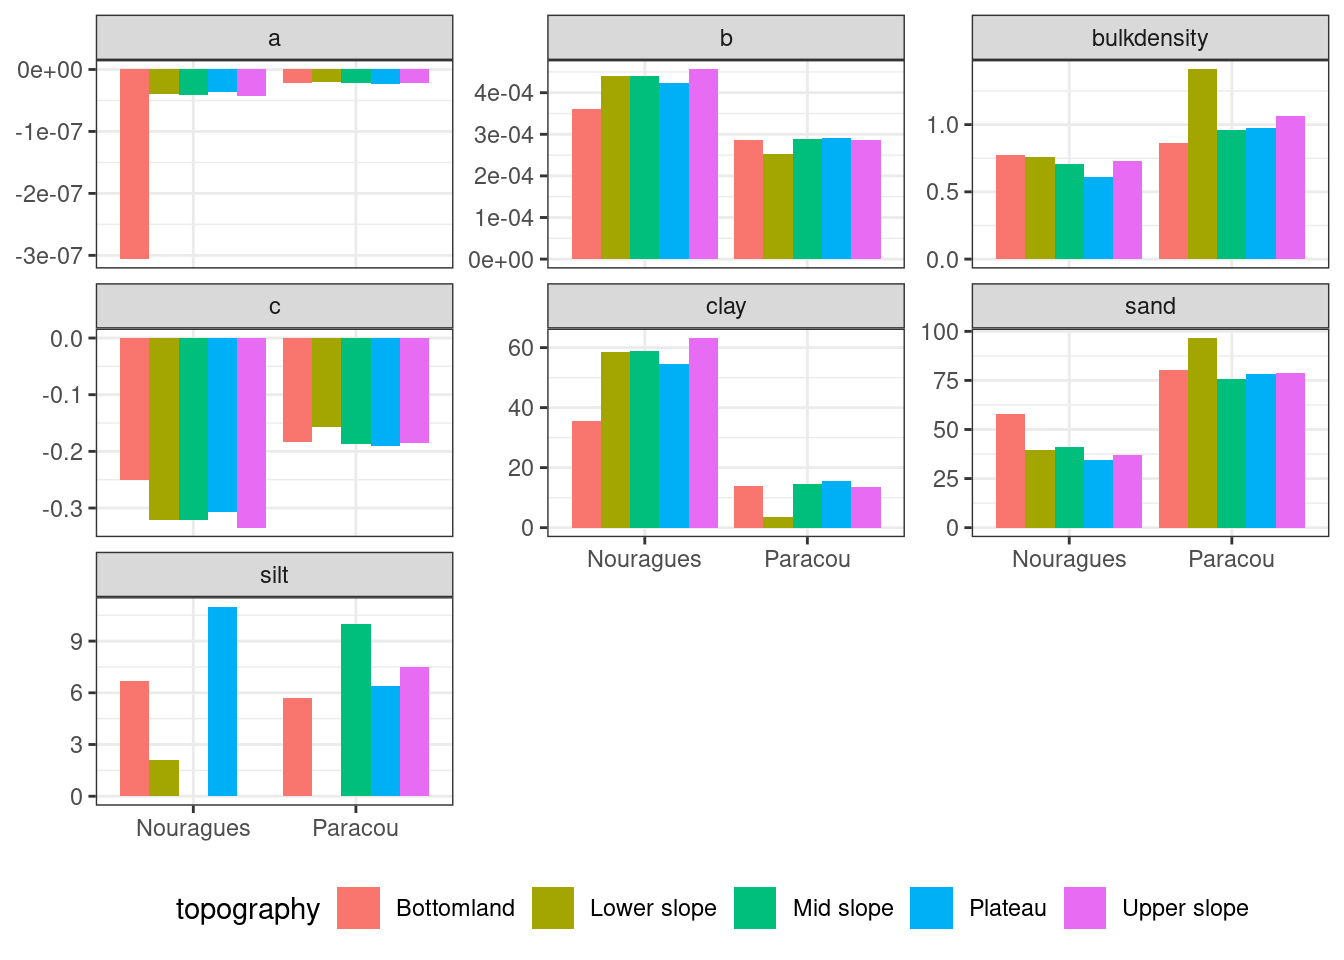
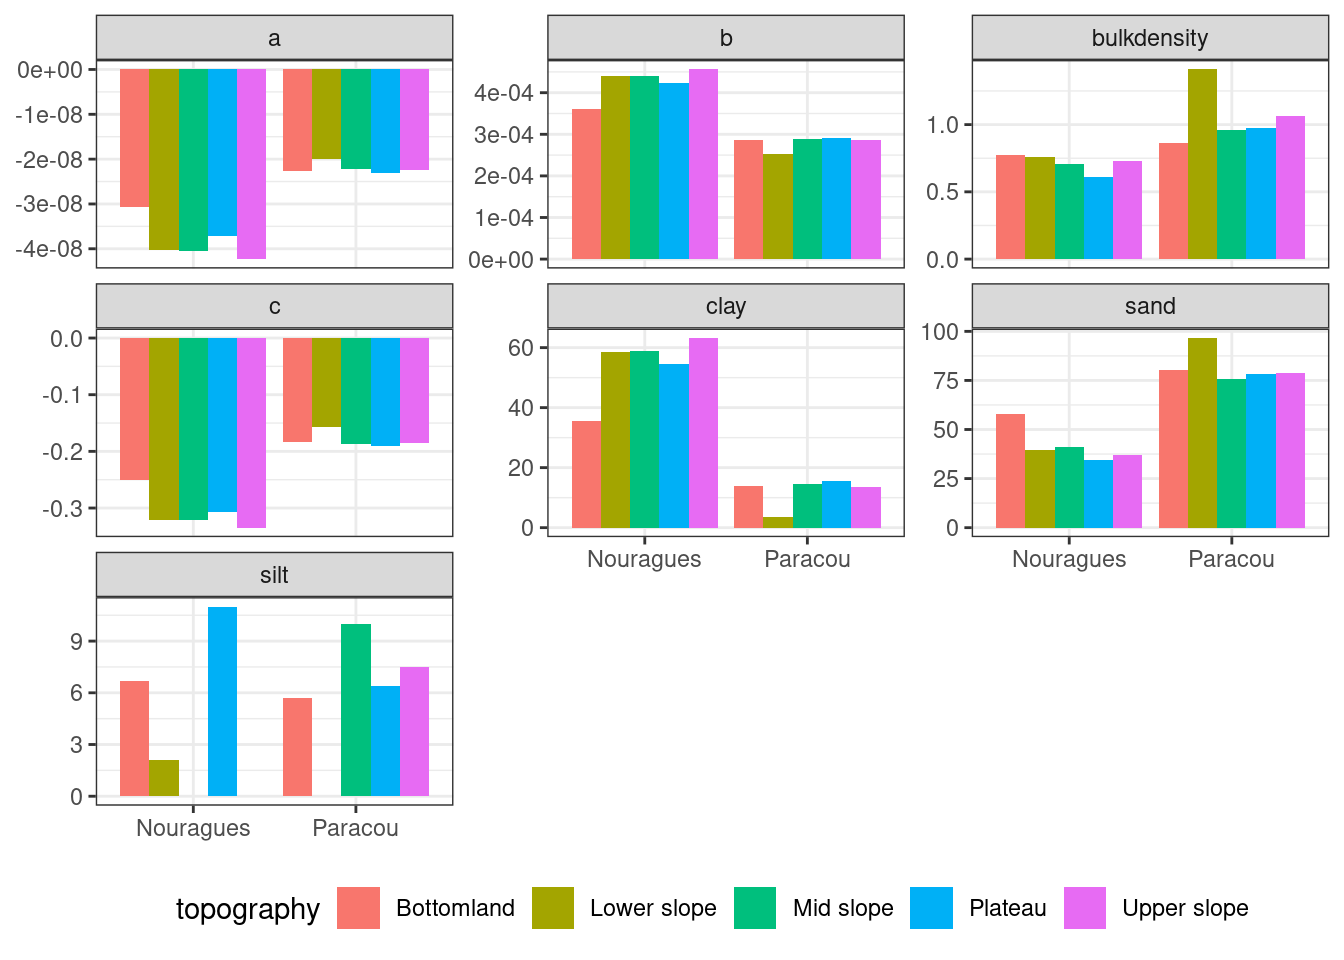
microclim 0.1.0.9003: data tomst (almost ready)

Changed region(s): [[0.0, 0.0625, 0.3438, 0.2812], [0.0, 0.0938, 0.0625, 0.2188]]

diff --git a/docs/01_data.html b/docs/01_data.html
@@ -404,9 +404,156 @@ pre > code.sourceCode > span > a:first-child::before { text-decoration: underlin
 </section>
 <section id="tomst-calibration" class="level2">
 <h2 class="anchored" data-anchor-id="tomst-calibration">Tomst calibration</h2>
+<div class="cell">
+<details>
+<summary>Code</summary>
+<div class="sourceCode cell-code" id="cb7"><pre class="sourceCode r code-with-copy"><code class="sourceCode r"><span id="cb7-1"><a href="#cb7-1" aria-hidden="true" tabindex="-1"></a>files <span class="ot">&lt;-</span> <span class="fu">list.files</span>(<span class="st">"data/Nouragues_Test_2023_02_22"</span>, <span class="at">pattern =</span> <span class="st">"data"</span>, <span class="at">full.names =</span> <span class="cn">TRUE</span>)</span>
+<span id="cb7-2"><a href="#cb7-2" aria-hidden="true" tabindex="-1"></a><span class="fu">names</span>(files) <span class="ot">&lt;-</span> <span class="fu">list.files</span>(<span class="st">"data/Nouragues_Test_2023_02_22"</span>, <span class="at">pattern =</span> <span class="st">"data"</span>, <span class="at">full.names =</span> <span class="cn">FALSE</span>)</span>
+<span id="cb7-3"><a href="#cb7-3" aria-hidden="true" tabindex="-1"></a>files <span class="sc">%&gt;%</span> </span>
+<span id="cb7-4"><a href="#cb7-4" aria-hidden="true" tabindex="-1"></a>  <span class="fu">lapply</span>(vroom,</span>
+<span id="cb7-5"><a href="#cb7-5" aria-hidden="true" tabindex="-1"></a>         <span class="at">col_select =</span> <span class="dv">2</span><span class="sc">:</span><span class="dv">7</span>,</span>
+<span id="cb7-6"><a href="#cb7-6" aria-hidden="true" tabindex="-1"></a>         <span class="at">col_types =</span> <span class="fu">c</span>(<span class="st">"c"</span>, <span class="fu">rep</span>(<span class="st">"d"</span>, <span class="dv">5</span>)), </span>
+<span id="cb7-7"><a href="#cb7-7" aria-hidden="true" tabindex="-1"></a>         <span class="at">col_names =</span> F,</span>
+<span id="cb7-8"><a href="#cb7-8" aria-hidden="true" tabindex="-1"></a>         <span class="at">locale =</span> <span class="fu">locale</span>(<span class="at">decimal_mark =</span> <span class="st">","</span>)) <span class="sc">%&gt;%</span> </span>
+<span id="cb7-9"><a href="#cb7-9" aria-hidden="true" tabindex="-1"></a>  <span class="fu">bind_rows</span>(<span class="at">.id =</span> <span class="st">"file"</span>) <span class="sc">%&gt;%</span> </span>
+<span id="cb7-10"><a href="#cb7-10" aria-hidden="true" tabindex="-1"></a>  <span class="fu">mutate</span>(<span class="at">X2 =</span> <span class="fu">gsub</span>(<span class="st">"."</span>, <span class="st">"-"</span>, X2, <span class="at">fixed =</span> <span class="cn">TRUE</span>)) <span class="sc">%&gt;%</span> </span>
+<span id="cb7-11"><a href="#cb7-11" aria-hidden="true" tabindex="-1"></a>  <span class="fu">mutate</span>(<span class="at">X2 =</span> <span class="fu">as.POSIXct</span>(X2)) <span class="sc">%&gt;%</span> </span>
+<span id="cb7-12"><a href="#cb7-12" aria-hidden="true" tabindex="-1"></a>  <span class="fu">mutate</span>(<span class="at">X2 =</span> <span class="fu">as_datetime</span>(X2)) <span class="sc">%&gt;%</span> </span>
+<span id="cb7-13"><a href="#cb7-13" aria-hidden="true" tabindex="-1"></a>  <span class="fu">rename</span>(<span class="at">date =</span> X2, <span class="at">tz =</span> X3, <span class="at">t_soil =</span> X4, <span class="at">t_surface =</span> X5, <span class="at">t_air =</span> X6, <span class="at">moisture =</span> X7) <span class="sc">%&gt;%</span> </span>
+<span id="cb7-14"><a href="#cb7-14" aria-hidden="true" tabindex="-1"></a>  <span class="fu">separate</span>(file, <span class="fu">c</span>(<span class="st">"data"</span>, <span class="st">"tomst_sensornum"</span>), <span class="at">convert =</span> T) <span class="sc">%&gt;%</span> </span>
+<span id="cb7-15"><a href="#cb7-15" aria-hidden="true" tabindex="-1"></a>  <span class="fu">select</span>(<span class="sc">-</span>data) <span class="sc">%&gt;%</span> </span>
+<span id="cb7-16"><a href="#cb7-16" aria-hidden="true" tabindex="-1"></a>  <span class="fu">mutate</span>(<span class="at">date =</span> date <span class="sc">-</span> <span class="dv">3</span><span class="sc">*</span><span class="dv">60</span><span class="sc">*</span><span class="dv">60</span>) <span class="sc">%&gt;%</span> <span class="co"># UTC-3</span></span>
+<span id="cb7-17"><a href="#cb7-17" aria-hidden="true" tabindex="-1"></a>  <span class="fu">mutate</span>(<span class="at">site =</span> <span class="st">"Nouragues"</span>) <span class="sc">%&gt;%</span> </span>
+<span id="cb7-18"><a href="#cb7-18" aria-hidden="true" tabindex="-1"></a>  <span class="fu">left_join</span>(<span class="fu">read_tsv</span>(<span class="st">"outputs/tomst_infos.tsv"</span>) <span class="sc">%&gt;%</span> </span>
+<span id="cb7-19"><a href="#cb7-19" aria-hidden="true" tabindex="-1"></a>              <span class="fu">select</span>(tomst_sensornum, site, topography)) <span class="sc">%&gt;%</span> </span>
+<span id="cb7-20"><a href="#cb7-20" aria-hidden="true" tabindex="-1"></a>  <span class="fu">left_join</span>(<span class="fu">read_tsv</span>(<span class="st">"outputs/granulo.tsv"</span>) <span class="sc">%&gt;%</span> </span>
+<span id="cb7-21"><a href="#cb7-21" aria-hidden="true" tabindex="-1"></a>              <span class="fu">select</span>(site, topography, a, b, c)) <span class="sc">%&gt;%</span> </span>
+<span id="cb7-22"><a href="#cb7-22" aria-hidden="true" tabindex="-1"></a>  <span class="fu">mutate</span>(<span class="at">volumetric_moisture =</span> a<span class="sc">*</span>moisture<span class="sc">^</span><span class="dv">2</span> <span class="sc">+</span> b<span class="sc">*</span>moisture <span class="sc">+</span> c) <span class="sc">%&gt;%</span> </span>
+<span id="cb7-23"><a href="#cb7-23" aria-hidden="true" tabindex="-1"></a>  <span class="fu">select</span>(site, date, tomst_sensornum, t_soil, t_surface, t_air, volumetric_moisture) <span class="sc">%&gt;%</span> </span>
+<span id="cb7-24"><a href="#cb7-24" aria-hidden="true" tabindex="-1"></a>  <span class="fu">write_tsv</span>(<span class="st">"outputs/tomst_calib.tsv"</span>)</span></code><button title="Copy to Clipboard" class="code-copy-button"><i class="bi"></i></button></pre></div>
+</details>
+</div>
+<div class="cell">
+<details>
+<summary>Code</summary>
+<div class="sourceCode cell-code" id="cb8"><pre class="sourceCode r code-with-copy"><code class="sourceCode r"><span id="cb8-1"><a href="#cb8-1" aria-hidden="true" tabindex="-1"></a><span class="fu">read_tsv</span>(<span class="st">"outputs/tomst_calib.tsv"</span>) <span class="sc">%&gt;%</span> </span>
+<span id="cb8-2"><a href="#cb8-2" aria-hidden="true" tabindex="-1"></a>  <span class="fu">gather</span>(variable, value, <span class="sc">-</span>tomst_sensornum, <span class="sc">-</span>date, <span class="sc">-</span>site) <span class="sc">%&gt;%</span> </span>
+<span id="cb8-3"><a href="#cb8-3" aria-hidden="true" tabindex="-1"></a>  <span class="fu">filter</span>(tomst_sensornum <span class="sc">%in%</span> <span class="fu">c</span>(<span class="dv">94244901</span>, <span class="dv">94244902</span>)) <span class="sc">%&gt;%</span> </span>
+<span id="cb8-4"><a href="#cb8-4" aria-hidden="true" tabindex="-1"></a>  <span class="fu">ggplot</span>(<span class="fu">aes</span>(date, value, <span class="at">col =</span> <span class="fu">as.character</span>(tomst_sensornum))) <span class="sc">+</span></span>
+<span id="cb8-5"><a href="#cb8-5" aria-hidden="true" tabindex="-1"></a>  <span class="fu">geom_line</span>() <span class="sc">+</span></span>
+<span id="cb8-6"><a href="#cb8-6" aria-hidden="true" tabindex="-1"></a>  <span class="fu">facet_wrap</span>(<span class="sc">~</span> variable, <span class="at">scales =</span> <span class="st">"free_y"</span>) <span class="sc">+</span></span>
+<span id="cb8-7"><a href="#cb8-7" aria-hidden="true" tabindex="-1"></a>  <span class="fu">theme_bw</span>() <span class="sc">+</span></span>
+<span id="cb8-8"><a href="#cb8-8" aria-hidden="true" tabindex="-1"></a>  <span class="fu">theme</span>(<span class="at">legend.position =</span> <span class="st">"bottom"</span>, <span class="at">axis.title =</span> <span class="fu">element_blank</span>()) <span class="sc">+</span></span>
+<span id="cb8-9"><a href="#cb8-9" aria-hidden="true" tabindex="-1"></a>  <span class="fu">scale_color_discrete</span>(<span class="st">""</span>)</span></code><button title="Copy to Clipboard" class="code-copy-button"><i class="bi"></i></button></pre></div>
+</details>
+<div class="cell-output-display">
+<div class="quarto-figure quarto-figure-center">
+<figure class="figure">
+<p><img src="01_data_files/figure-html/calibfig-1.png" class="img-fluid figure-img" width="672"></p>
+<figcaption class="figure-caption">Caption.</figcaption>
+</figure>
+</div>
+</div>
+</div>
+<p>Variables:</p>
+<ul>
+<li><strong>site</strong>: Paracou or Nouragues</li>
+<li><strong>date</strong>: date time every 15 minutes</li>
+<li><strong>tomst_sensornum</strong>: tomst manufacturer ID</li>
+<li><strong>t_soil</strong>: temperature soil (°C), <strong>to precise</strong></li>
+<li><strong>t_surface</strong>: temperature surface (°C), <strong>to precise</strong></li>
+<li><strong>t_air</strong>: temperature air (°C), <strong>to precise</strong></li>
+<li>Other variables could be kept after junction (topography, light, etc for subsequent analyses)</li>
+</ul>
 </section>
 <section id="tomst-data" class="level2">
 <h2 class="anchored" data-anchor-id="tomst-data">Tomst data</h2>
+<div class="cell">
+<details>
+<summary>Code</summary>
+<div class="sourceCode cell-code" id="cb9"><pre class="sourceCode r code-with-copy"><code class="sourceCode r"><span id="cb9-1"><a href="#cb9-1" aria-hidden="true" tabindex="-1"></a>files <span class="ot">&lt;-</span> <span class="fu">list.files</span>(<span class="st">"data/Nouragues_2024_02_22"</span>, <span class="at">pattern =</span> <span class="st">"data"</span>, <span class="at">full.names =</span> <span class="cn">TRUE</span>)</span>
+<span id="cb9-2"><a href="#cb9-2" aria-hidden="true" tabindex="-1"></a><span class="fu">names</span>(files) <span class="ot">&lt;-</span> <span class="fu">list.files</span>(<span class="st">"data/Nouragues_2024_02_22"</span>, <span class="at">pattern =</span> <span class="st">"data"</span>, <span class="at">full.names =</span> <span class="cn">FALSE</span>)</span>
+<span id="cb9-3"><a href="#cb9-3" aria-hidden="true" tabindex="-1"></a>nouragues <span class="ot">&lt;-</span> files <span class="sc">%&gt;%</span> </span>
+<span id="cb9-4"><a href="#cb9-4" aria-hidden="true" tabindex="-1"></a>  <span class="fu">lapply</span>(vroom,</span>
+<span id="cb9-5"><a href="#cb9-5" aria-hidden="true" tabindex="-1"></a>         <span class="at">col_select =</span> <span class="dv">2</span><span class="sc">:</span><span class="dv">7</span>,</span>
+<span id="cb9-6"><a href="#cb9-6" aria-hidden="true" tabindex="-1"></a>         <span class="at">col_types =</span> <span class="fu">c</span>(<span class="st">"c"</span>, <span class="fu">rep</span>(<span class="st">"d"</span>, <span class="dv">5</span>)), </span>
+<span id="cb9-7"><a href="#cb9-7" aria-hidden="true" tabindex="-1"></a>         <span class="at">col_names =</span> F,</span>
+<span id="cb9-8"><a href="#cb9-8" aria-hidden="true" tabindex="-1"></a>         <span class="at">locale =</span> <span class="fu">locale</span>(<span class="at">decimal_mark =</span> <span class="st">","</span>)) <span class="sc">%&gt;%</span> </span>
+<span id="cb9-9"><a href="#cb9-9" aria-hidden="true" tabindex="-1"></a>  <span class="fu">bind_rows</span>(<span class="at">.id =</span> <span class="st">"file"</span>) <span class="sc">%&gt;%</span> </span>
+<span id="cb9-10"><a href="#cb9-10" aria-hidden="true" tabindex="-1"></a>  <span class="fu">mutate</span>(<span class="at">X2 =</span> <span class="fu">gsub</span>(<span class="st">"."</span>, <span class="st">"-"</span>, X2, <span class="at">fixed =</span> <span class="cn">TRUE</span>)) <span class="sc">%&gt;%</span> </span>
+<span id="cb9-11"><a href="#cb9-11" aria-hidden="true" tabindex="-1"></a>  <span class="fu">mutate</span>(<span class="at">X2 =</span> <span class="fu">as.POSIXct</span>(X2)) <span class="sc">%&gt;%</span> </span>
+<span id="cb9-12"><a href="#cb9-12" aria-hidden="true" tabindex="-1"></a>  <span class="fu">mutate</span>(<span class="at">X2 =</span> <span class="fu">as_datetime</span>(X2)) <span class="sc">%&gt;%</span> </span>
+<span id="cb9-13"><a href="#cb9-13" aria-hidden="true" tabindex="-1"></a>  <span class="fu">rename</span>(<span class="at">date =</span> X2, <span class="at">tz =</span> X3, <span class="at">t_soil =</span> X4, <span class="at">t_surface =</span> X5, <span class="at">t_air =</span> X6, <span class="at">moisture =</span> X7) <span class="sc">%&gt;%</span> </span>
+<span id="cb9-14"><a href="#cb9-14" aria-hidden="true" tabindex="-1"></a>  <span class="fu">separate</span>(file, <span class="fu">c</span>(<span class="st">"data"</span>, <span class="st">"tomst_sensornum"</span>), <span class="at">convert =</span> T) <span class="sc">%&gt;%</span> </span>
+<span id="cb9-15"><a href="#cb9-15" aria-hidden="true" tabindex="-1"></a>  <span class="fu">select</span>(<span class="sc">-</span>data) <span class="sc">%&gt;%</span> </span>
+<span id="cb9-16"><a href="#cb9-16" aria-hidden="true" tabindex="-1"></a>  <span class="fu">mutate</span>(<span class="at">date =</span> date <span class="sc">-</span> <span class="dv">3</span><span class="sc">*</span><span class="dv">60</span><span class="sc">*</span><span class="dv">60</span>) <span class="sc">%&gt;%</span> <span class="co"># UTC-3</span></span>
+<span id="cb9-17"><a href="#cb9-17" aria-hidden="true" tabindex="-1"></a>  <span class="fu">mutate</span>(<span class="at">site =</span> <span class="st">"Nouragues"</span>) <span class="sc">%&gt;%</span> </span>
+<span id="cb9-18"><a href="#cb9-18" aria-hidden="true" tabindex="-1"></a>  <span class="fu">left_join</span>(<span class="fu">read_tsv</span>(<span class="st">"outputs/tomst_infos.tsv"</span>) <span class="sc">%&gt;%</span> </span>
+<span id="cb9-19"><a href="#cb9-19" aria-hidden="true" tabindex="-1"></a>              <span class="fu">select</span>(tomst_sensornum, site, topography)) <span class="sc">%&gt;%</span> </span>
+<span id="cb9-20"><a href="#cb9-20" aria-hidden="true" tabindex="-1"></a>  <span class="fu">left_join</span>(<span class="fu">read_tsv</span>(<span class="st">"outputs/granulo.tsv"</span>) <span class="sc">%&gt;%</span> </span>
+<span id="cb9-21"><a href="#cb9-21" aria-hidden="true" tabindex="-1"></a>              <span class="fu">select</span>(site, topography, a, b, c)) <span class="sc">%&gt;%</span> </span>
+<span id="cb9-22"><a href="#cb9-22" aria-hidden="true" tabindex="-1"></a>  <span class="fu">mutate</span>(<span class="at">volumetric_moisture =</span> a<span class="sc">*</span>moisture<span class="sc">^</span><span class="dv">2</span> <span class="sc">+</span> b<span class="sc">*</span>moisture <span class="sc">+</span> c) <span class="sc">%&gt;%</span> </span>
+<span id="cb9-23"><a href="#cb9-23" aria-hidden="true" tabindex="-1"></a>  <span class="fu">select</span>(site, date, tomst_sensornum, t_soil, t_surface, t_air, volumetric_moisture)</span>
+<span id="cb9-24"><a href="#cb9-24" aria-hidden="true" tabindex="-1"></a>files <span class="ot">&lt;-</span> <span class="fu">list.files</span>(<span class="st">"data/Paracou_2024_05_06"</span>, <span class="at">pattern =</span> <span class="st">"data"</span>, <span class="at">full.names =</span> <span class="cn">TRUE</span>)</span>
+<span id="cb9-25"><a href="#cb9-25" aria-hidden="true" tabindex="-1"></a><span class="fu">names</span>(files) <span class="ot">&lt;-</span> <span class="fu">list.files</span>(<span class="st">"data/Paracou_2024_05_06"</span>, <span class="at">pattern =</span> <span class="st">"data"</span>, <span class="at">full.names =</span> <span class="cn">FALSE</span>)</span>
+<span id="cb9-26"><a href="#cb9-26" aria-hidden="true" tabindex="-1"></a>paracou <span class="ot">&lt;-</span> files <span class="sc">%&gt;%</span> </span>
+<span id="cb9-27"><a href="#cb9-27" aria-hidden="true" tabindex="-1"></a>  <span class="fu">lapply</span>(vroom,</span>
+<span id="cb9-28"><a href="#cb9-28" aria-hidden="true" tabindex="-1"></a>         <span class="at">col_select =</span> <span class="dv">2</span><span class="sc">:</span><span class="dv">7</span>,</span>
+<span id="cb9-29"><a href="#cb9-29" aria-hidden="true" tabindex="-1"></a>         <span class="at">col_types =</span> <span class="fu">c</span>(<span class="st">"c"</span>, <span class="fu">rep</span>(<span class="st">"d"</span>, <span class="dv">5</span>)), </span>
+<span id="cb9-30"><a href="#cb9-30" aria-hidden="true" tabindex="-1"></a>         <span class="at">col_names =</span> F,</span>
+<span id="cb9-31"><a href="#cb9-31" aria-hidden="true" tabindex="-1"></a>         <span class="at">locale =</span> <span class="fu">locale</span>(<span class="at">decimal_mark =</span> <span class="st">","</span>)) <span class="sc">%&gt;%</span> </span>
+<span id="cb9-32"><a href="#cb9-32" aria-hidden="true" tabindex="-1"></a>  <span class="fu">bind_rows</span>(<span class="at">.id =</span> <span class="st">"file"</span>) <span class="sc">%&gt;%</span> </span>
+<span id="cb9-33"><a href="#cb9-33" aria-hidden="true" tabindex="-1"></a>  <span class="fu">mutate</span>(<span class="at">X2 =</span> <span class="fu">gsub</span>(<span class="st">"."</span>, <span class="st">"-"</span>, X2, <span class="at">fixed =</span> <span class="cn">TRUE</span>)) <span class="sc">%&gt;%</span> </span>
+<span id="cb9-34"><a href="#cb9-34" aria-hidden="true" tabindex="-1"></a>  <span class="fu">mutate</span>(<span class="at">X2 =</span> <span class="fu">as.POSIXct</span>(X2)) <span class="sc">%&gt;%</span> </span>
+<span id="cb9-35"><a href="#cb9-35" aria-hidden="true" tabindex="-1"></a>  <span class="fu">mutate</span>(<span class="at">X2 =</span> <span class="fu">as_datetime</span>(X2)) <span class="sc">%&gt;%</span> </span>
+<span id="cb9-36"><a href="#cb9-36" aria-hidden="true" tabindex="-1"></a>  <span class="fu">rename</span>(<span class="at">date =</span> X2, <span class="at">tz =</span> X3, <span class="at">t_soil =</span> X4, <span class="at">t_surface =</span> X5, <span class="at">t_air =</span> X6, <span class="at">moisture =</span> X7) <span class="sc">%&gt;%</span> </span>
+<span id="cb9-37"><a href="#cb9-37" aria-hidden="true" tabindex="-1"></a>  <span class="fu">separate</span>(file, <span class="fu">c</span>(<span class="st">"data"</span>, <span class="st">"tomst_sensornum"</span>), <span class="at">convert =</span> T) <span class="sc">%&gt;%</span> </span>
+<span id="cb9-38"><a href="#cb9-38" aria-hidden="true" tabindex="-1"></a>  <span class="fu">select</span>(<span class="sc">-</span>data) <span class="sc">%&gt;%</span> </span>
+<span id="cb9-39"><a href="#cb9-39" aria-hidden="true" tabindex="-1"></a>  <span class="fu">mutate</span>(<span class="at">date =</span> date <span class="sc">-</span> <span class="dv">3</span><span class="sc">*</span><span class="dv">60</span><span class="sc">*</span><span class="dv">60</span>) <span class="sc">%&gt;%</span> <span class="co"># UTC-3</span></span>
+<span id="cb9-40"><a href="#cb9-40" aria-hidden="true" tabindex="-1"></a>  <span class="co"># mutate(date = date + years(2)) %&gt;% </span></span>
+<span id="cb9-41"><a href="#cb9-41" aria-hidden="true" tabindex="-1"></a>  <span class="fu">mutate</span>(<span class="at">site =</span> <span class="st">"Paracou"</span>) <span class="sc">%&gt;%</span> </span>
+<span id="cb9-42"><a href="#cb9-42" aria-hidden="true" tabindex="-1"></a>  <span class="fu">left_join</span>(<span class="fu">read_tsv</span>(<span class="st">"outputs/tomst_infos.tsv"</span>) <span class="sc">%&gt;%</span> </span>
+<span id="cb9-43"><a href="#cb9-43" aria-hidden="true" tabindex="-1"></a>              <span class="fu">select</span>(tomst_sensornum, site, topography)) <span class="sc">%&gt;%</span> </span>
+<span id="cb9-44"><a href="#cb9-44" aria-hidden="true" tabindex="-1"></a>  <span class="fu">left_join</span>(<span class="fu">read_tsv</span>(<span class="st">"outputs/granulo.tsv"</span>) <span class="sc">%&gt;%</span> </span>
+<span id="cb9-45"><a href="#cb9-45" aria-hidden="true" tabindex="-1"></a>              <span class="fu">select</span>(site, topography, a, b, c)) <span class="sc">%&gt;%</span> </span>
+<span id="cb9-46"><a href="#cb9-46" aria-hidden="true" tabindex="-1"></a>  <span class="fu">mutate</span>(<span class="at">volumetric_moisture =</span> a<span class="sc">*</span>moisture<span class="sc">^</span><span class="dv">2</span> <span class="sc">+</span> b<span class="sc">*</span>moisture <span class="sc">+</span> c) <span class="sc">%&gt;%</span> <span class="co"># issue with volumetric_moisture</span></span>
+<span id="cb9-47"><a href="#cb9-47" aria-hidden="true" tabindex="-1"></a>  <span class="fu">select</span>(site, date, tomst_sensornum, t_soil, t_surface, t_air, volumetric_moisture)</span>
+<span id="cb9-48"><a href="#cb9-48" aria-hidden="true" tabindex="-1"></a><span class="fu">bind_rows</span>(nouragues, paracou) <span class="sc">%&gt;%</span> </span>
+<span id="cb9-49"><a href="#cb9-49" aria-hidden="true" tabindex="-1"></a>  <span class="fu">write_tsv</span>(<span class="st">"outputs/tomst_data.tsv"</span>)</span></code><button title="Copy to Clipboard" class="code-copy-button"><i class="bi"></i></button></pre></div>
+</details>
+</div>
+<div class="cell">
+<details>
+<summary>Code</summary>
+<div class="sourceCode cell-code" id="cb10"><pre class="sourceCode r code-with-copy"><code class="sourceCode r"><span id="cb10-1"><a href="#cb10-1" aria-hidden="true" tabindex="-1"></a><span class="fu">vroom</span>(<span class="st">"outputs/tomst_data.tsv"</span>) <span class="sc">%&gt;%</span> </span>
+<span id="cb10-2"><a href="#cb10-2" aria-hidden="true" tabindex="-1"></a>  <span class="fu">gather</span>(variable, value, <span class="sc">-</span>tomst_sensornum, <span class="sc">-</span>date, <span class="sc">-</span>site) <span class="sc">%&gt;%</span> </span>
+<span id="cb10-3"><a href="#cb10-3" aria-hidden="true" tabindex="-1"></a>  <span class="fu">filter</span>(tomst_sensornum <span class="sc">%in%</span> <span class="fu">c</span>(<span class="dv">94244901</span>, <span class="dv">94223164</span>)) <span class="sc">%&gt;%</span> </span>
+<span id="cb10-4"><a href="#cb10-4" aria-hidden="true" tabindex="-1"></a>  <span class="fu">ggplot</span>(<span class="fu">aes</span>(date, value, <span class="at">col =</span> <span class="fu">paste</span>(site, tomst_sensornum))) <span class="sc">+</span></span>
+<span id="cb10-5"><a href="#cb10-5" aria-hidden="true" tabindex="-1"></a>  <span class="fu">geom_line</span>() <span class="sc">+</span></span>
+<span id="cb10-6"><a href="#cb10-6" aria-hidden="true" tabindex="-1"></a>  <span class="fu">facet_wrap</span>(<span class="sc">~</span> variable, <span class="at">scales =</span> <span class="st">"free_y"</span>) <span class="sc">+</span></span>
+<span id="cb10-7"><a href="#cb10-7" aria-hidden="true" tabindex="-1"></a>  <span class="fu">theme_bw</span>() <span class="sc">+</span></span>
+<span id="cb10-8"><a href="#cb10-8" aria-hidden="true" tabindex="-1"></a>  <span class="fu">theme</span>(<span class="at">legend.position =</span> <span class="st">"bottom"</span>, <span class="at">axis.title =</span> <span class="fu">element_blank</span>()) <span class="sc">+</span></span>
+<span id="cb10-9"><a href="#cb10-9" aria-hidden="true" tabindex="-1"></a>  <span class="fu">scale_color_discrete</span>(<span class="st">""</span>)</span></code><button title="Copy to Clipboard" class="code-copy-button"><i class="bi"></i></button></pre></div>
+</details>
+<div class="cell-output-display">
+<div class="quarto-figure quarto-figure-center">
+<figure class="figure">
+<p><img src="01_data_files/figure-html/datafig-1.png" class="img-fluid figure-img" width="672"></p>
+<figcaption class="figure-caption">Caption.</figcaption>
+</figure>
+</div>
+</div>
+</div>
+<p>Variables:</p>
+<ul>
+<li><strong>site</strong>: Paracou or Nouragues</li>
+<li><strong>date</strong>: date time every 15 minutes</li>
+<li><strong>tomst_sensornum</strong>: tomst manufacturer ID</li>
+<li><strong>t_soil</strong>: temperature soil (°C), <strong>to precise</strong></li>
+<li><strong>t_surface</strong>: temperature surface (°C), <strong>to precise</strong></li>
+<li><strong>t_air</strong>: temperature air (°C), <strong>to precise</strong></li>
+<li>Other variables could be kept after junction (topography, light, etc for subsequent analyses)</li>
+</ul>
 
 
 </section>

diff --git a/NEWS.md b/NEWS.md
@@ -1,2 +1,3 @@
+-   microclim 0.1.0.9003: data tomst (almost ready)
 -   microclim 0.1.0.9002: data granulometry
 -   microclim 0.1.0.9001: tomst info & guyaflux
